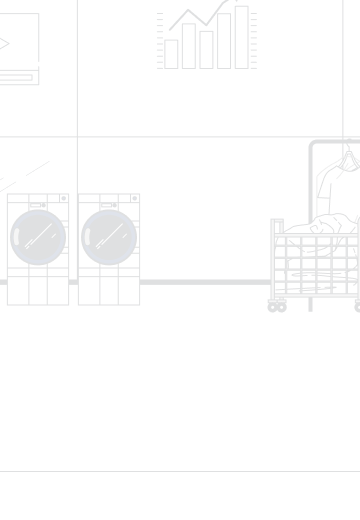
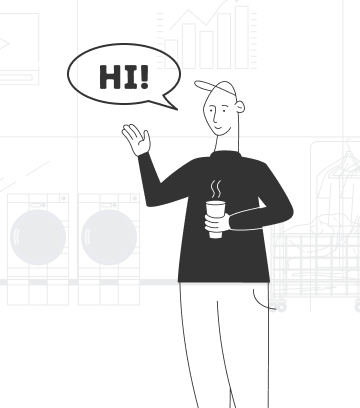
zen; update layout guest

diff --git a/resources/views/layouts/guest.blade.php b/resources/views/layouts/guest.blade.php
@@ -11,32 +11,18 @@
     <link href="https://fonts.bunny.net/css?family=figtree:400,500,600&display=swap" rel="stylesheet" />
     <!-- Scripts -->
     @vite(['resources/css/app.css', 'resources/js/app.js'])
-    <style>
-        .image-container {
-            position: relative;
-            width: 100%;
-            max-width: 200px;
-            /* Adjust this value as needed */
-        }
-
-        .overlay-image {
-            position: absolute;
-            top: 0;
-            left: 0;
-            width: 100%;
-            height: 100%;
-            z-index: 1;
-        }
-    </style>
+   
 </head>
 
 <body class="w-screen font-sans text-gray-900 antialiased">
-    <div class="h-fit w-fit flex flex-col sm:justify-center items-center pt-15 sm:pt-0 bg-sky-300">
-        <div class="image-container">
-            <img src="/image/ImageSign1.png" alt="Background Image" class="w-full" />
-            <img src="/image/character.png" alt="Overlay Image" class="overlay-image" />
-        </div>
-
+    
+    <div class="w-full flex flex-col sm:justify-center items-center pt-15 sm:pt-0 bg-sky-300">
+        @if (isset($header))
+        <div>
+            {{ $header }}
+        </div> 
+        @endif
+        
         <div class="w-full sm:max-w-md px-6 py-4 bg-white shadow-md overflow-hidden sm:rounded-lg">
             {{ $slot }}
         </div>

diff --git a/resources/views/auth/forgot-password.blade.php b/resources/views/auth/forgot-password.blade.php
@@ -1,4 +1,10 @@
 <x-guest-layout>
+    <x-slot name="header">
+        <div class="fak" >
+            <img src="/image/BG-ForgotPW.png" alt="Background Image"  />
+            
+        </div>
+    </x-slot>
     <div class="mb-4 text-sm text-gray-600 dark:text-gray-400">
         {{ __('Forgot your password? No problem. Just let us know your email address and we will email you a password reset link that will allow you to choose a new one.') }}
     </div>
@@ -20,6 +26,9 @@
             <x-primary-button>
                 {{ __('Email Password Reset Link') }}
             </x-primary-button>
+        </div>
+        <div class="mt-4">
+            <a href="{{ route('login') }}" class="text-gray-600 dark:text-gray-400 hover:text-gray-900 dark:hover:text-gray-900">{{ __('Sign In') }}</a>
         </div>
     </form>
 </x-guest-layout>

diff --git a/resources/views/auth/login.blade.php b/resources/views/auth/login.blade.php
@@ -1,4 +1,10 @@
 <x-guest-layout>
+    <x-slot name="header">
+        <div class="fak" >
+            <img src="/image/BG-Gambar.png" alt="Background Image"  />
+            
+        </div>
+    </x-slot>
     <!-- Session Status -->
     <x-auth-session-status class="mb-4" :status="session('status')" />
     <h1 class="text-3xl font-bold mb-4">Sign In</h1>

diff --git a/resources/views/auth/register.blade.php b/resources/views/auth/register.blade.php
@@ -1,4 +1,10 @@
 <x-guest-layout>
+    <x-slot name="header">
+        <div class="fak" >
+            <img src="/image/BG-SignUp.png" alt="Background Image"  />
+            
+        </div>
+    </x-slot>
     <h1 class="text-3xl font-bold mb-4">Sign Up</h1>
     <form method="POST" action="{{ route('register') }}">
         @csrf
